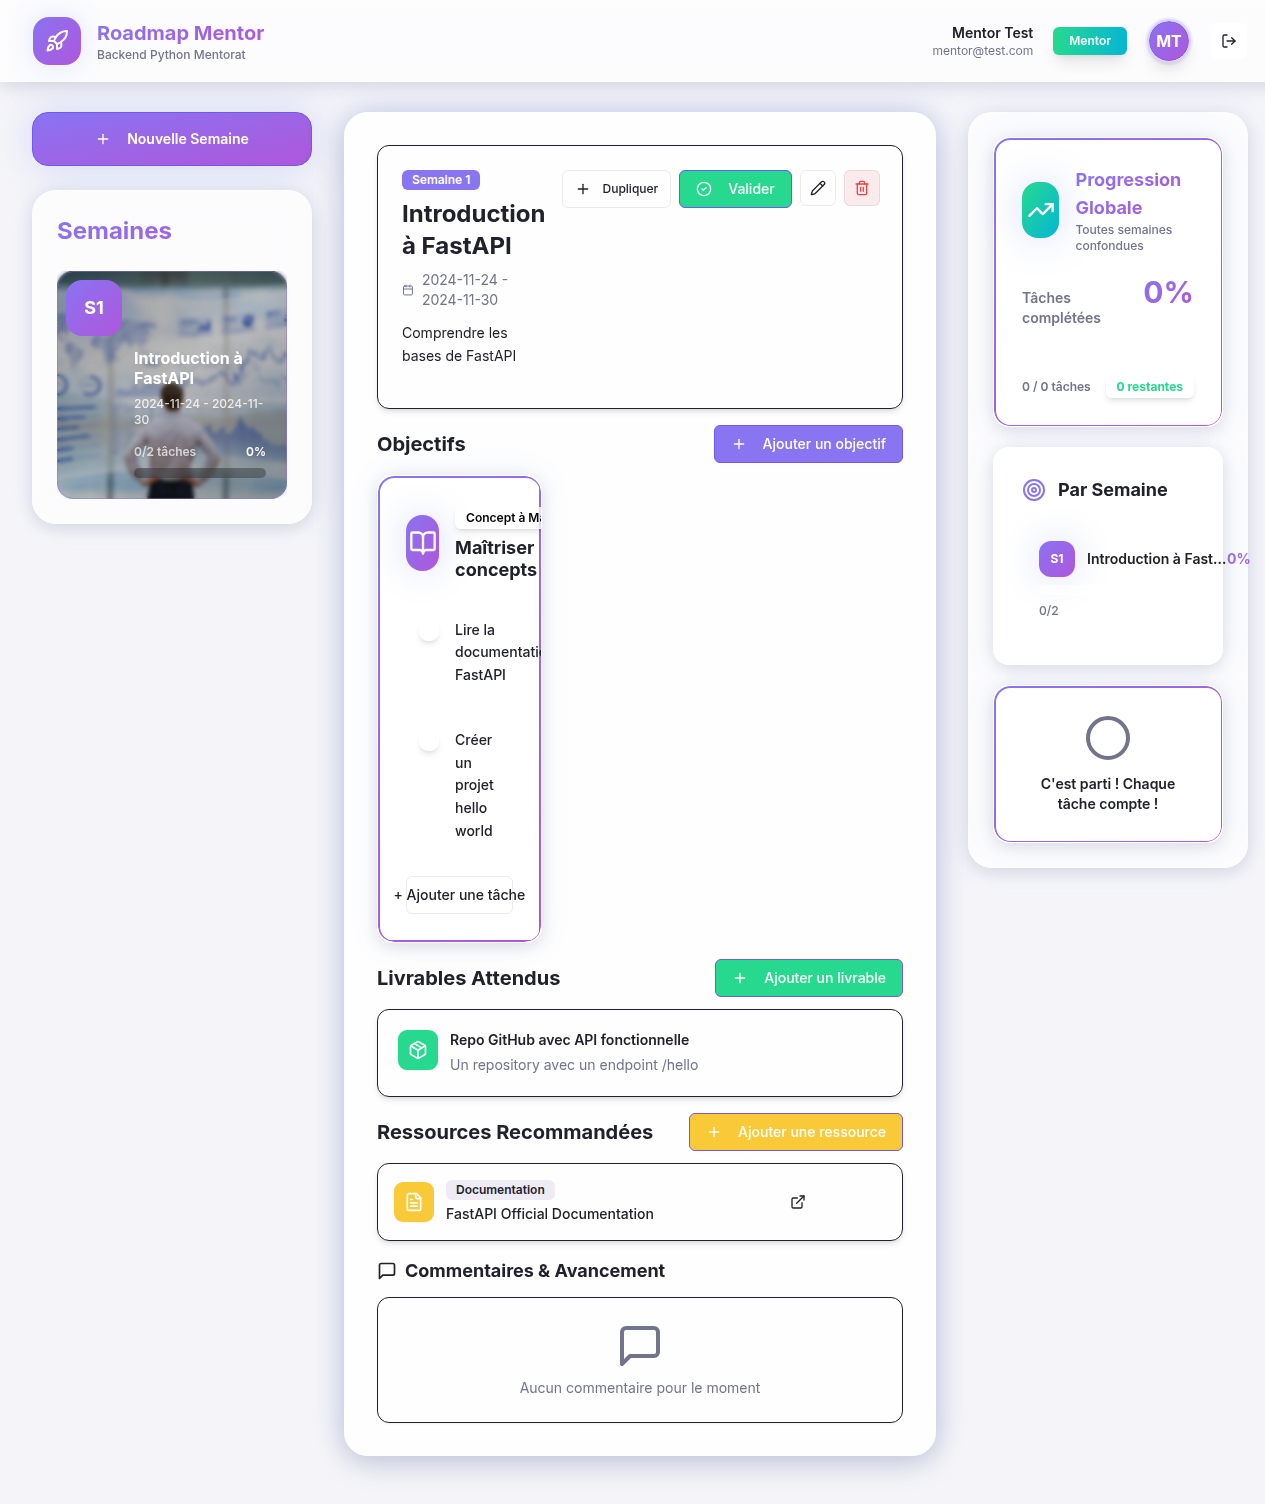
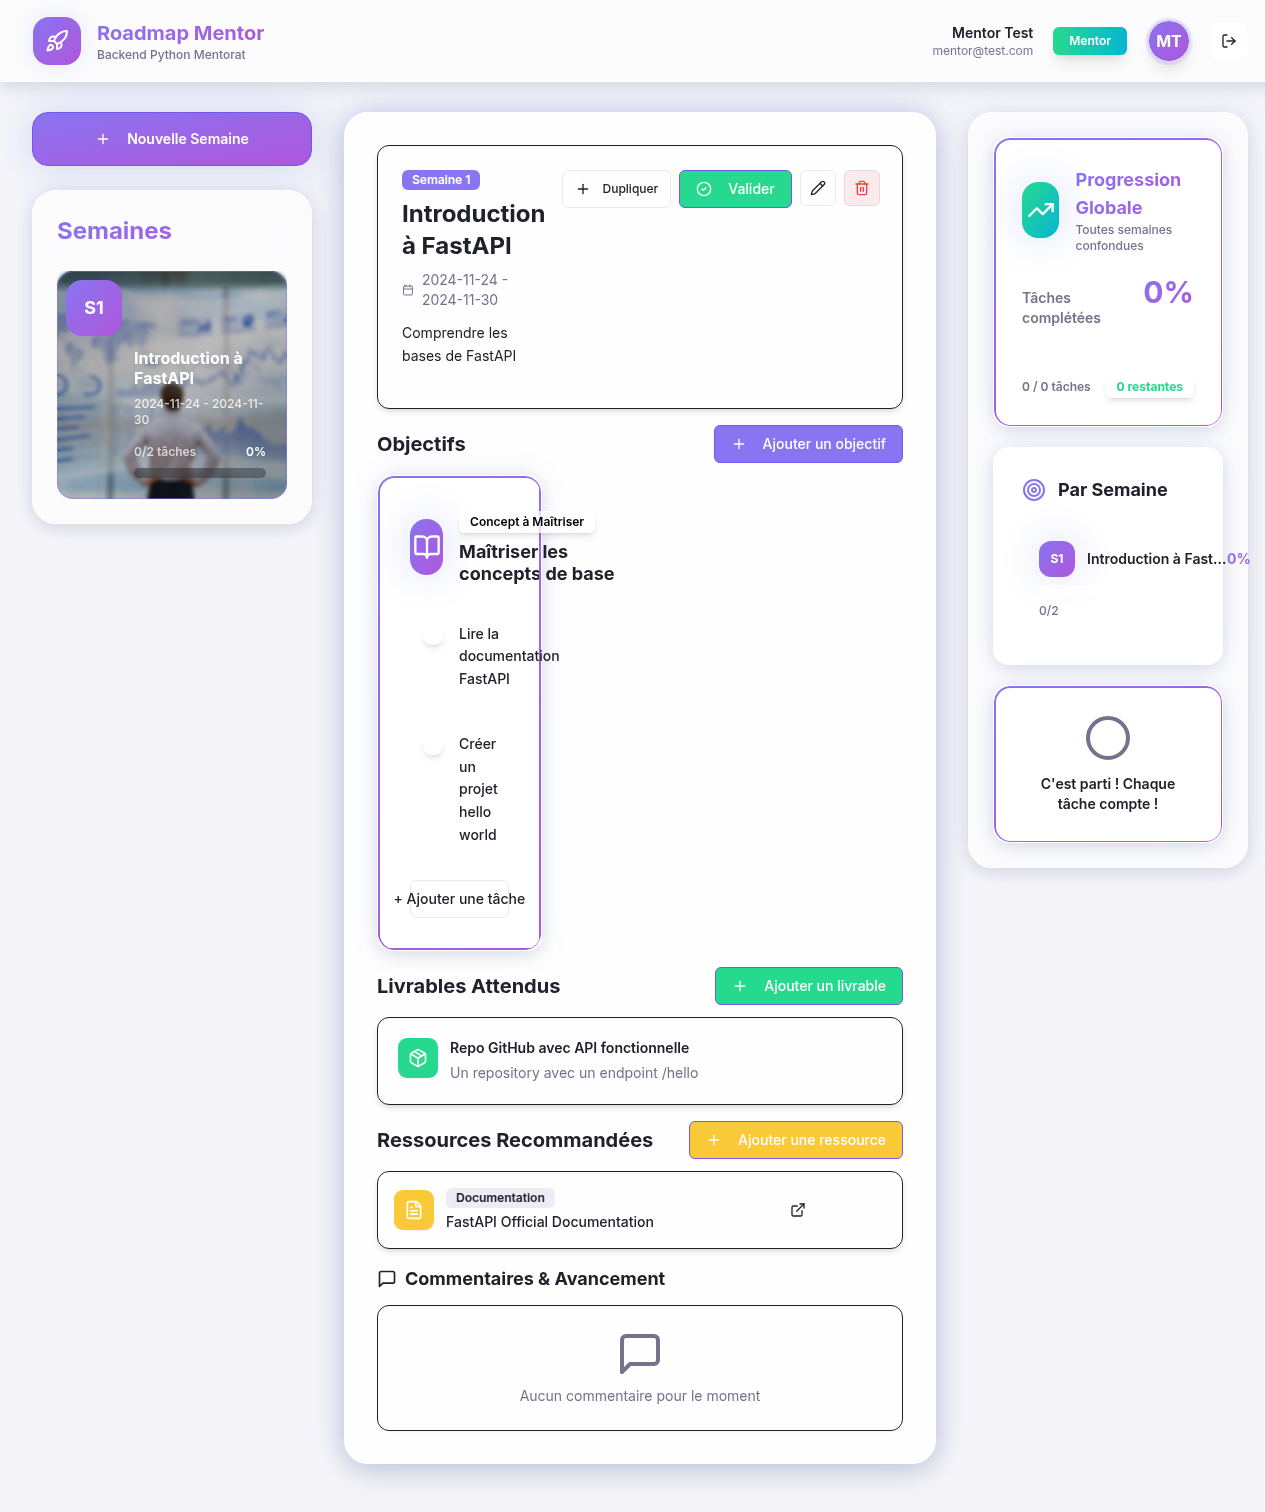
Make objective cards larger by increasing internal padding
Update ObjectiveCard component to use a wrapper div with increased padding (p-8) and remove min-w-full to better integrate with grid layout.

Replit-Commit-Author: Agent
Replit-Commit-Session-Id: 1a0fbc27-5bce-4f47-8d44-a159eac3e825
Replit-Commit-Checkpoint-Type: full_checkpoint
Replit-Commit-Event-Id: fb97ff97-5e59-4336-87c0-738a657e1325
Replit-Commit-Screenshot-Url: https://storage.googleapis.com/screenshot-production-us-central1/26edc66a-cadc-44f0-a4d2-09345e76e714/1a0fbc27-5bce-4f47-8d44-a159eac3e825/B18pDxS

diff --git a/client/src/components/objective-card.tsx b/client/src/components/objective-card.tsx
@@ -1,4 +1,4 @@
-import { Card } from "@/components/ui/card";
+import { Card, CardContent } from "@/components/ui/card";
 import { Badge } from "@/components/ui/badge";
 import { Button } from "@/components/ui/button";
 import { BookOpen, Code, Wrench, FileText, Pencil, Trash2 } from "lucide-react";
@@ -52,8 +52,9 @@ export function ObjectiveCard({
 
   return (
     <Card 
-      className="glass-card rounded-2xl p-8 min-w-full glow-on-hover hover-elevate transition-all duration-400 group gradient-border parallax-sm"
+      className="glass-card rounded-2xl glow-on-hover hover-elevate transition-all duration-400 group gradient-border parallax-sm"
     >
+      <div className="p-8">
       <div className="flex items-start justify-between mb-5">
         <div className="flex items-center gap-4">
           <div className={`w-14 h-14 rounded-2xl flex items-center justify-center shadow-xl pulse-glow ${gradientClass}`}>
@@ -114,6 +115,7 @@ export function ObjectiveCard({
           + Ajouter une tâche
         </Button>
       )}
+      </div>
     </Card>
   );
 }
